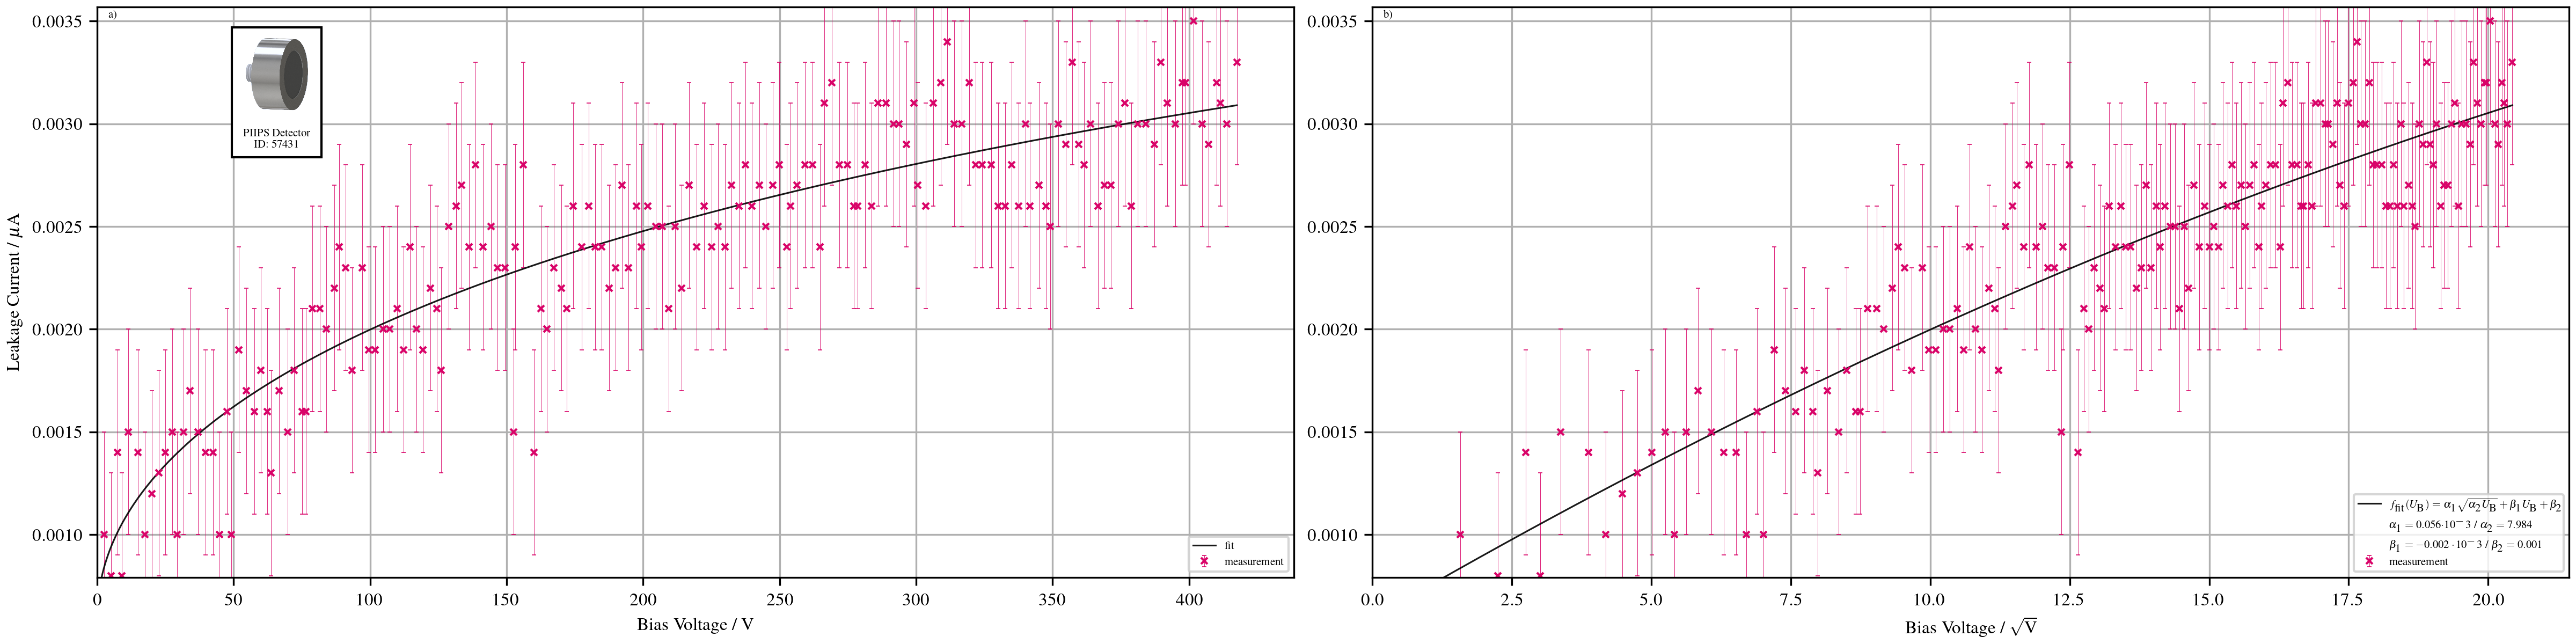
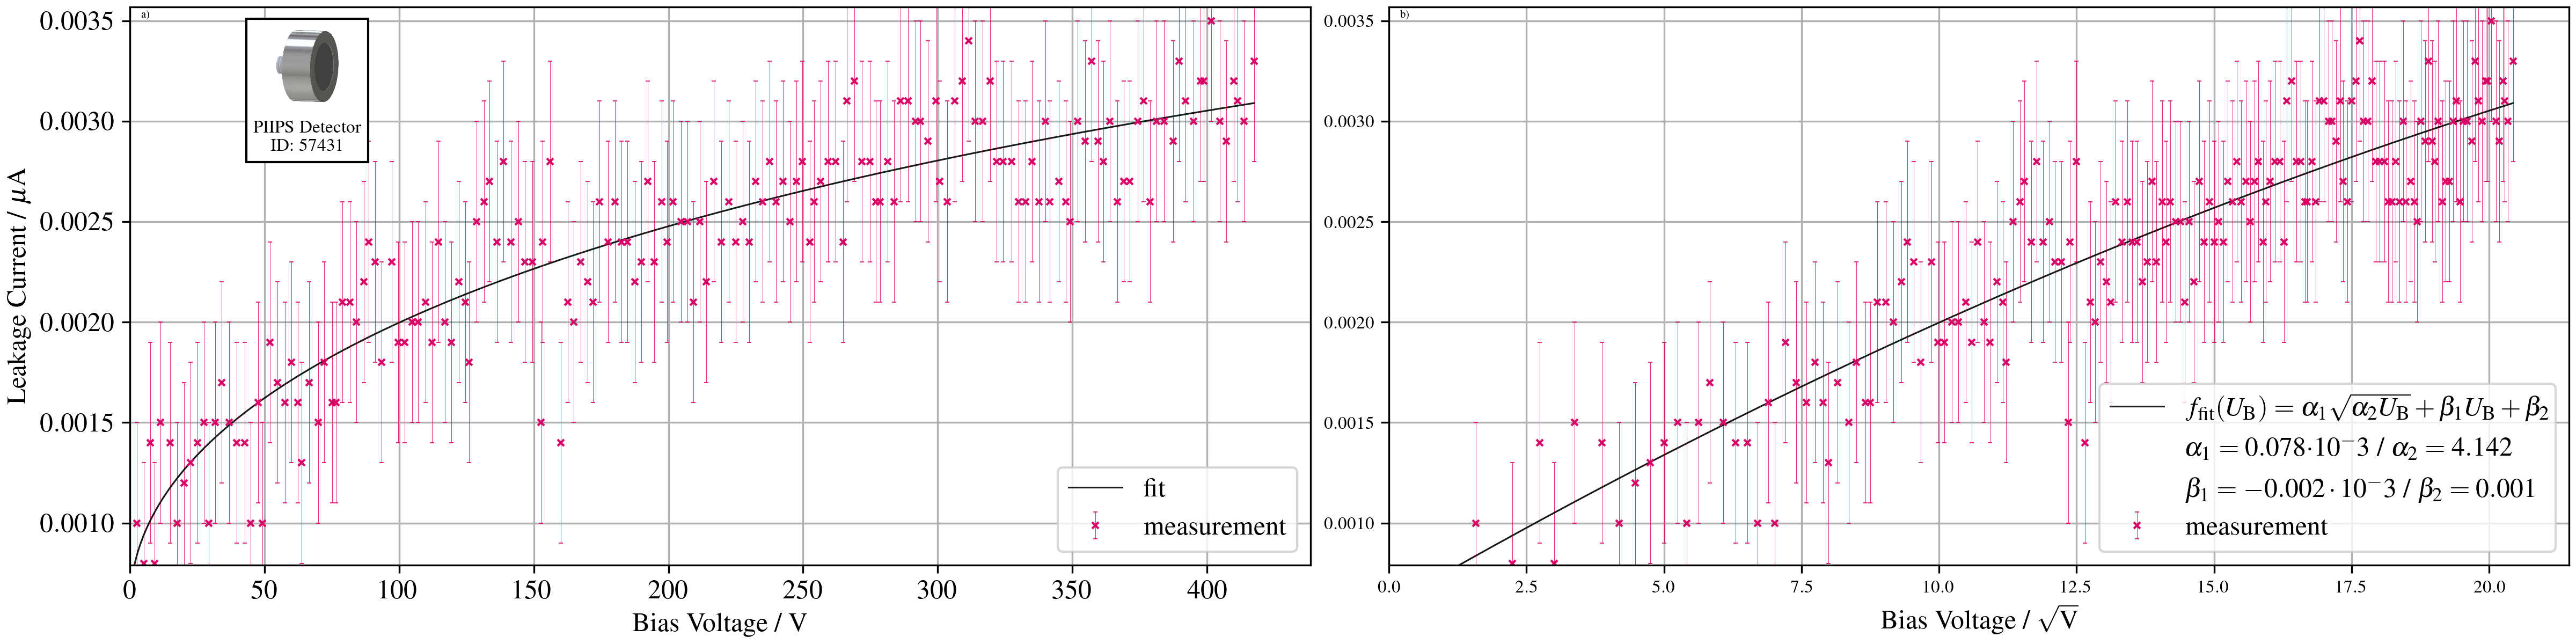
RBS plot larger Font

diff --git a/Study_2601_RBSDetectors/RBS_IVcurve_plot_fitter.py b/Study_2601_RBSDetectors/RBS_IVcurve_plot_fitter.py
@@ -74,6 +74,7 @@ print('---------------------------------------')
 
 def h5_plotter(measurement, m_volt, m_curr, x_err_value, y_err_value, scaling, file_suffix):
     DPI = 300
+    LARGE = 12
     plot_type = 'FullData_andFit'
     fig = plt.figure(figsize=(16,4), dpi=DPI, layout='constrained')
     gs = GridSpec(2, 4, figure=fig)
@@ -189,7 +190,7 @@ def h5_plotter(measurement, m_volt, m_curr, x_err_value, y_err_value, scaling, f
     #----------------- Detector Image includer -----------------#
     det_pic_file = detector_pic(measurement['det_id'])
     img = plt.imread(det_pic_file)
-    annotation = TextArea(f"{measurement['det_type']} Detector \n ID: {measurement['det_id']}", textprops=dict(color="black", fontsize=5, multialignment='center'))
+    annotation = TextArea(f"{measurement['det_type']} Detector \n ID: {measurement['det_id']}", textprops=dict(color="black", fontsize=8, multialignment='center'))
     imagebox = OffsetImage(img, zoom=0.05)
     stacked = VPacker(children=[imagebox, annotation],
                  align="center",
@@ -246,9 +247,11 @@ def h5_plotter(measurement, m_volt, m_curr, x_err_value, y_err_value, scaling, f
                 #  xy=(0.,1.), xycoords='axes fraction',
                 #  xytext=(+1, 0), textcoords='offset fontsize', fontsize=5)
     
-    ax1.set_xlabel(r'Bias Voltage / V')
-    ax2.set_xlabel(r'Bias Voltage / $\sqrt{\mathrm{V}}$')
-    ax1.set_ylabel(r'Leakage Current / $\mu$A')
+    ax1.set_xlabel(r'Bias Voltage / V', fontsize=LARGE)
+    ax2.set_xlabel(r'Bias Voltage / $\sqrt{\mathrm{V}}$', fontsize=LARGE)
+    ax1.set_ylabel(r'Leakage Current / $\mu$A', fontsize=LARGE)
+    ax1.set_xticks([0,50,100,150,200,250,300,350,400],[0,50,100,150,200,250,300,350,400],fontsize=LARGE)
+    ax1.set_yticks([0.001,0.0015,0.002,0.0025,0.003,0.0035],[0.001,0.0015,0.002,0.0025,0.003,0.0035],fontsize=LARGE)
     # plt.ylabel(r'Leakage Current / nA')
     
     if (x_min < 5 and x_max >= 100):
@@ -271,8 +274,8 @@ def h5_plotter(measurement, m_volt, m_curr, x_err_value, y_err_value, scaling, f
     
     ax1.grid(which='both')
     ax2.grid(which='both')
-    ax1.legend(loc='lower right', fontsize=5)
-    ax2.legend(loc='lower right', fontsize=5)
+    ax1.legend(loc='lower right', fontsize=LARGE)
+    ax2.legend(loc='lower right', fontsize=LARGE)
     # plt.tight_layout()
     
     # ax3.xaxis.set_major_formatter(ticker.NullLocator())